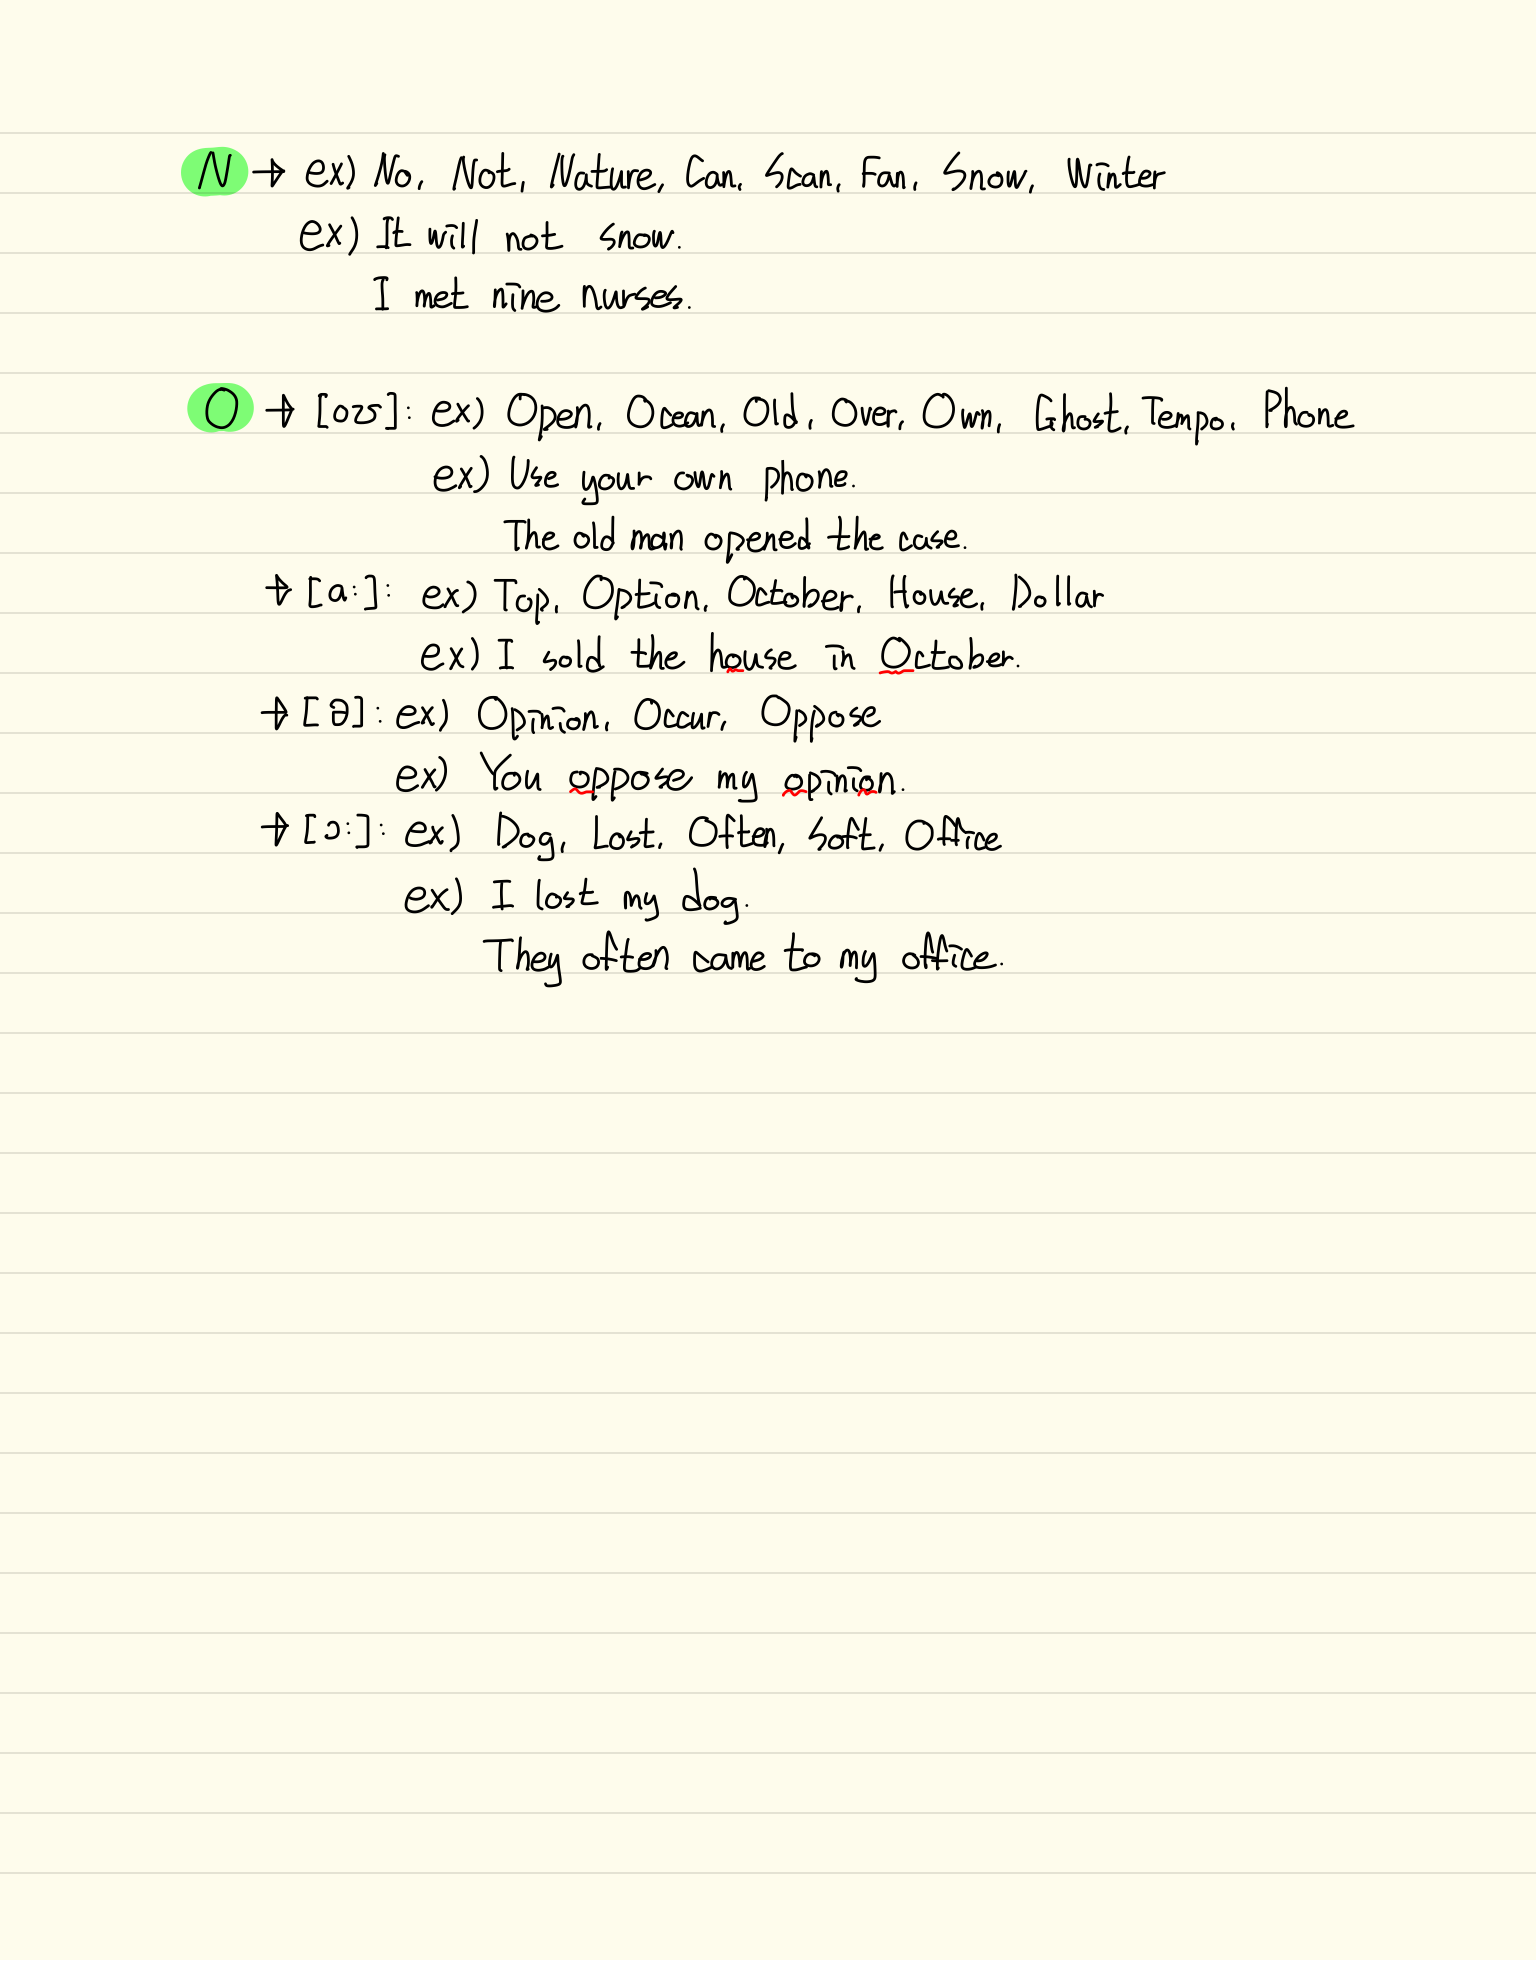
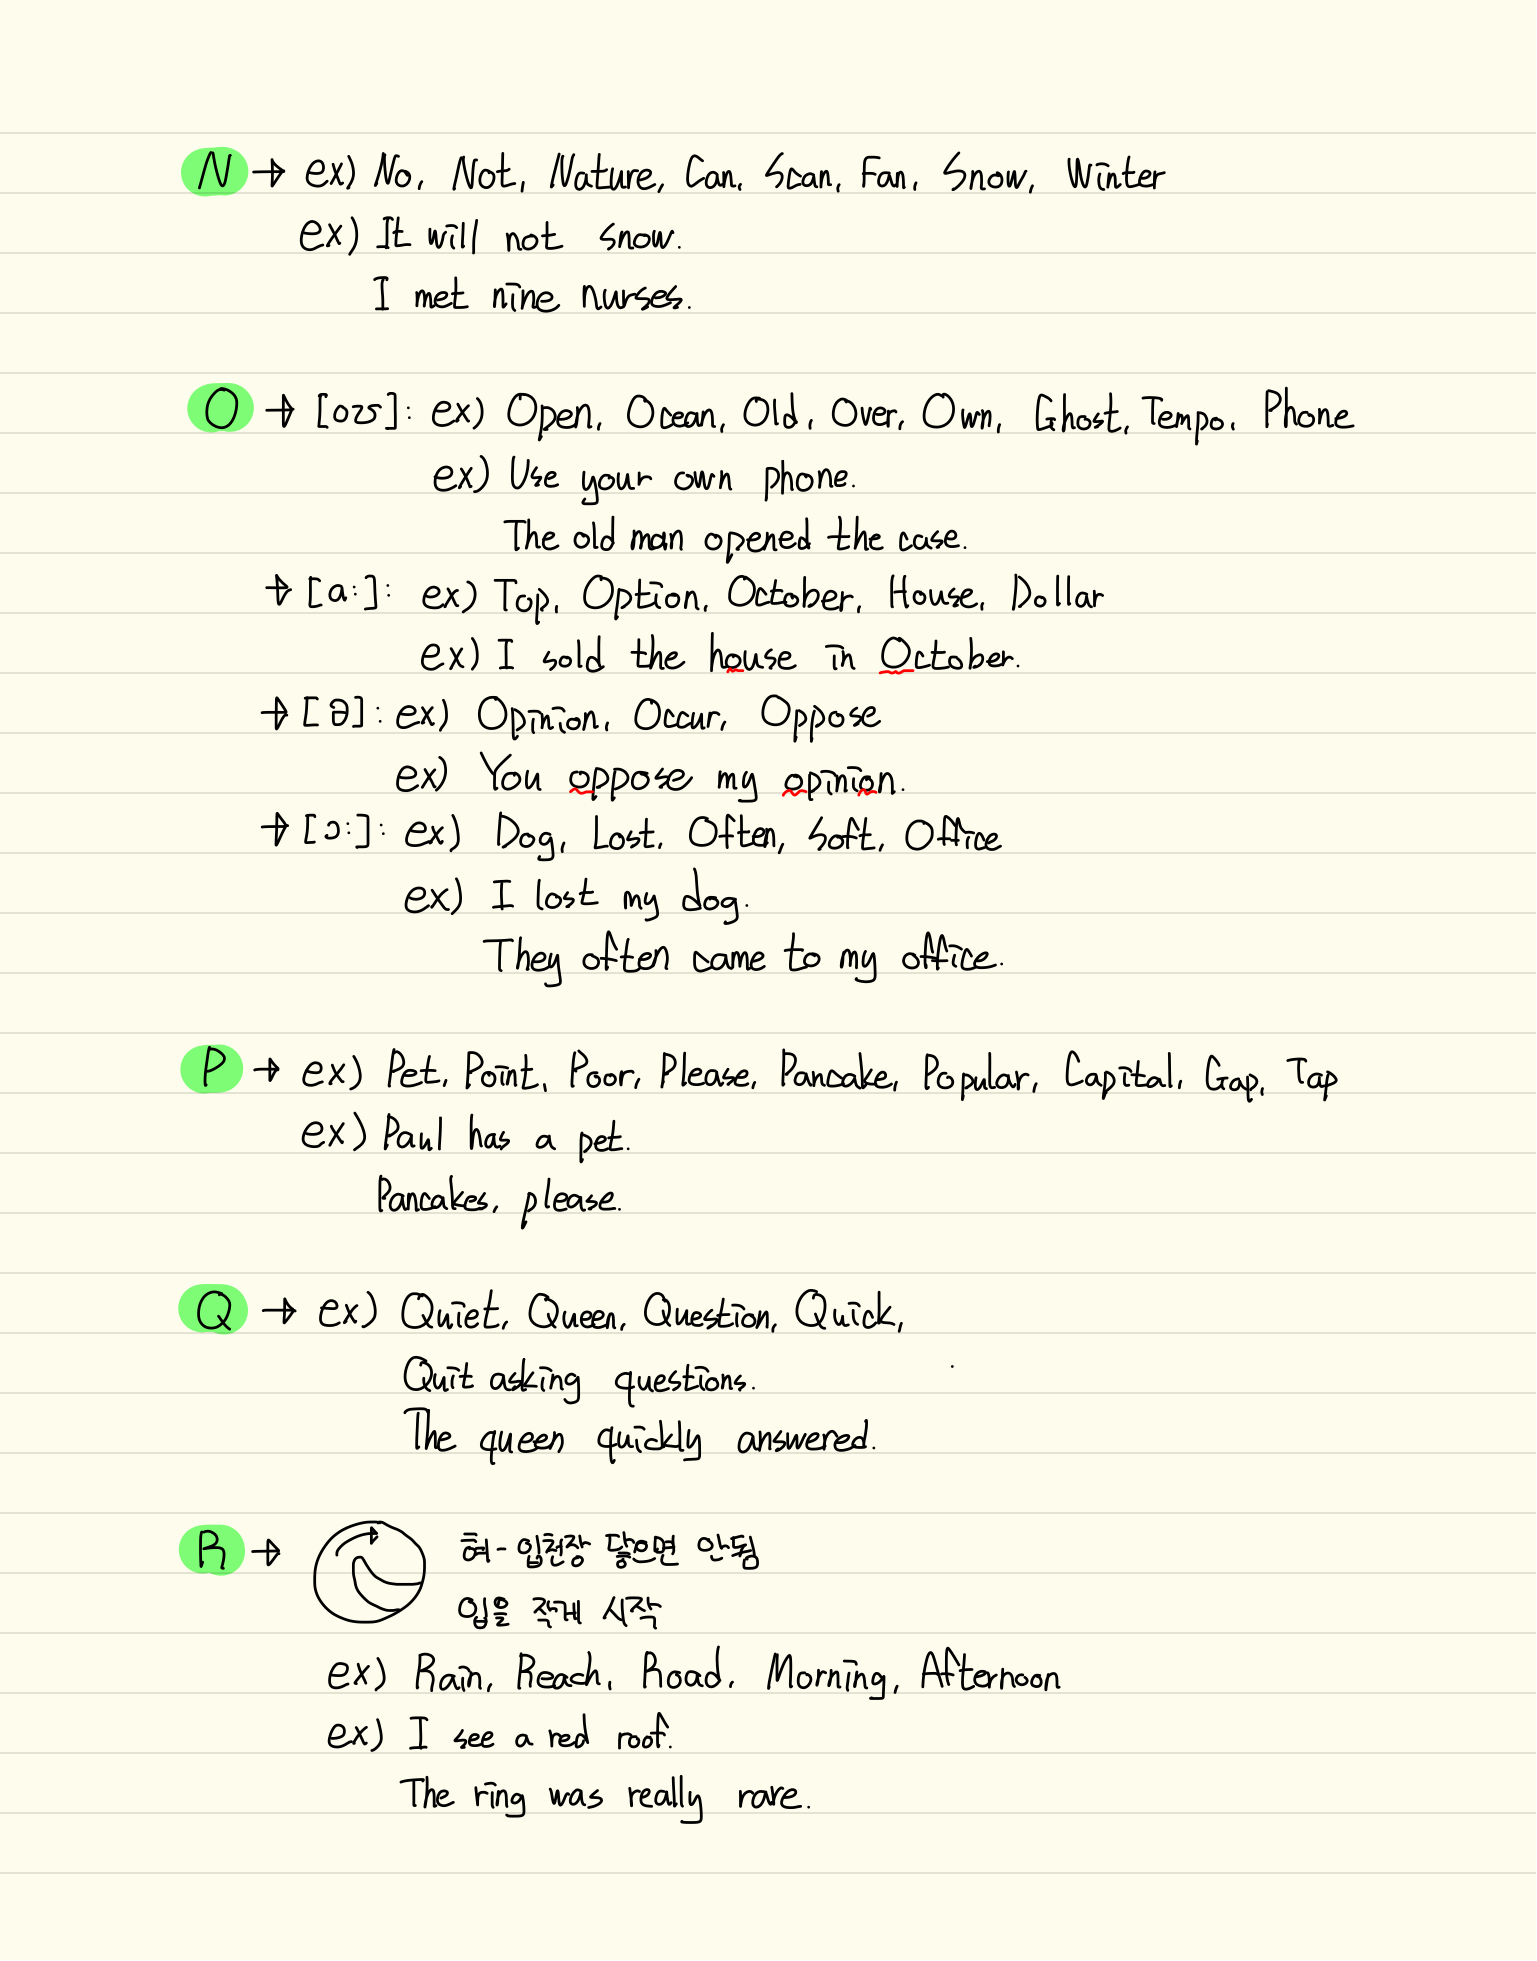
[TOEIC] Pronunciation N~T

diff --git a/TOEIC/TS-Pronunciation.md b/TOEIC/TS-Pronunciation.md
@@ -7,3 +7,5 @@
 ![](TS-Pronunciation_3.png)
 
 ![](TS-Pronunciation_4.png)
+
+![](TS-Pronunciation_5.png)
